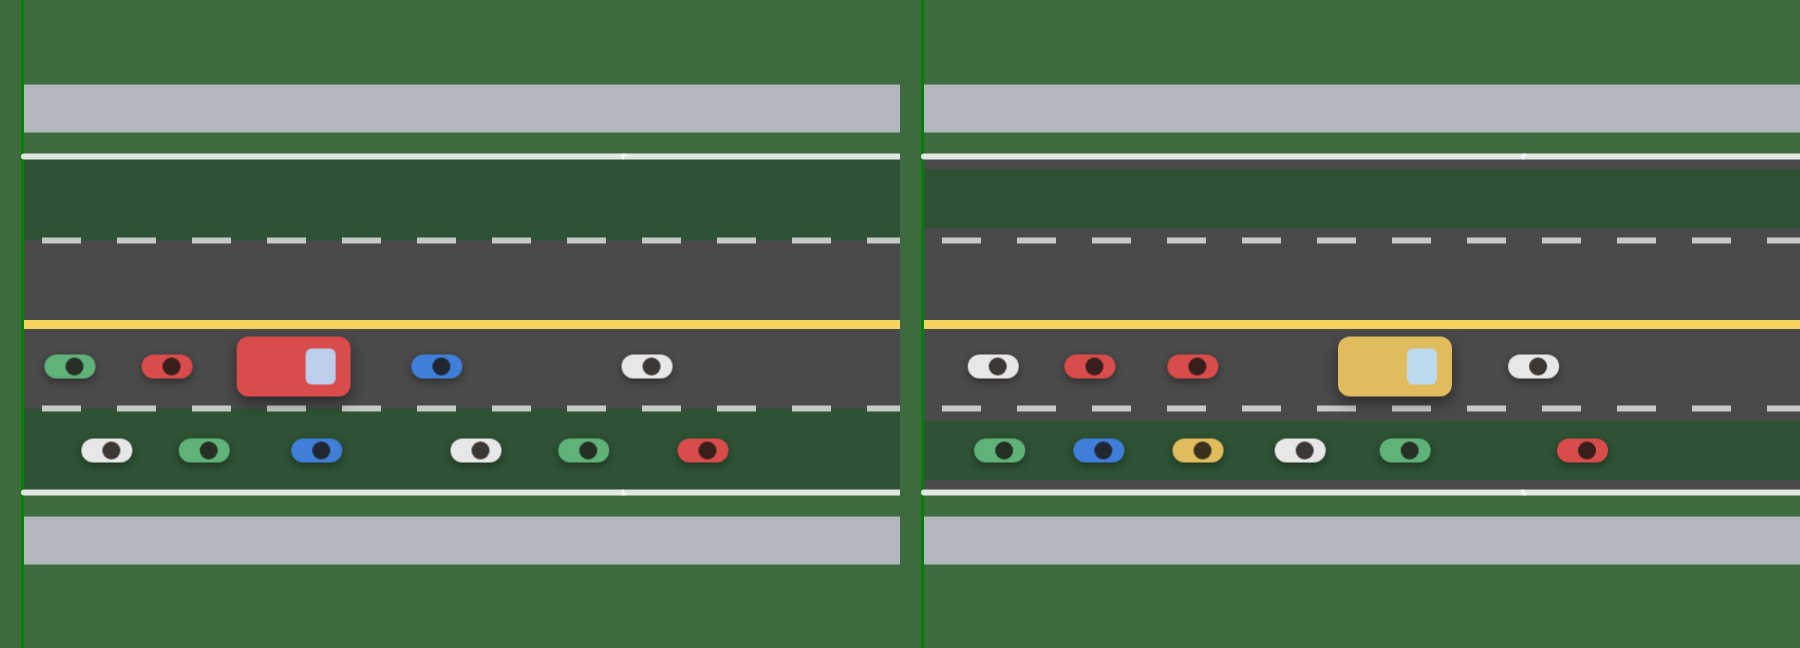
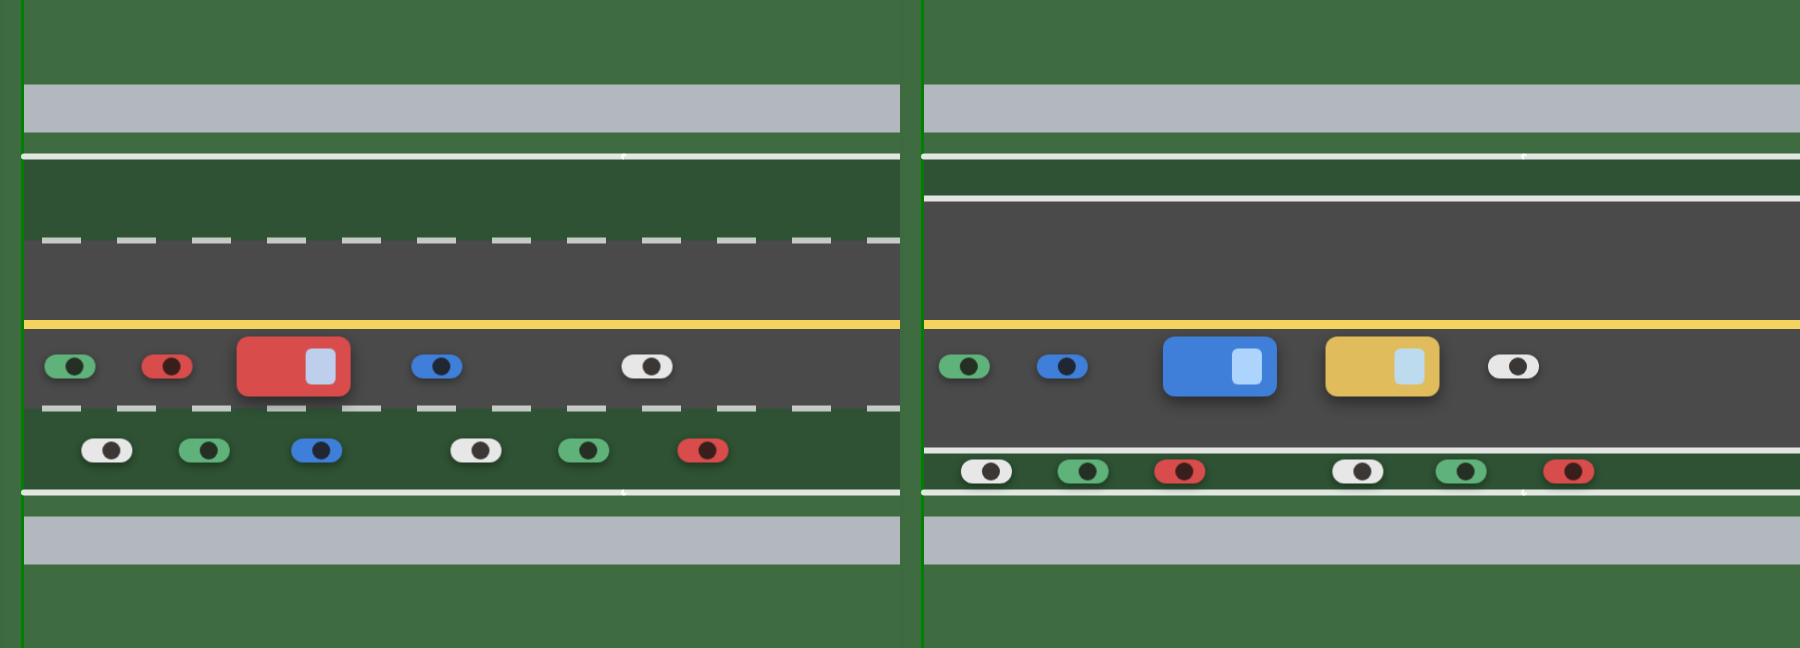
feat(roads): the cycle lane paints half a lane wide, kerb-aligned — real-world proportion
The full-lane green band read as a whole car lane given over to bikes.
Now the lane's visible footprint is HALF the lane width against the kerb,
like a real 1.5m bike lane beside a 3m car lane, in three agreeing places:

- the green tint is half-width and kerb-aligned (restrictedLaneBands);
- the full-slot dashed divider is replaced by a SOLID white edge line at
  half a lane in from the kerb (roadLaneMarkingPaths cycleA/cycleB, on
  straights, bends and one-ways, taper-capped like every marking);
- the bike rides the strip's centre, not the slot centre: couplerOffsets
  shifts a bike a quarter-lane kerbward on cycle lanes, scaled by lane-
  position proximity so merges on/off the strip glide (cycleStripShiftPx),
  with the matching landing shift after a turn onto a cycle-laned arm.
  The editor hover highlight and debug arrows sit on the strip too.

The lane's reserved slot in the sim's offset model is unchanged (a full
lane) — this is the paint-and-ride-line half of the proportion; halving
the slot itself would rework the band/seam/taper pipeline.

Claude-Session: https://claude.ai/code/session_018cEoxPea8NatzZQmcScoh2

Changed region(s): [[0.4978, 0.4938, 1.0, 0.7716], [0.4978, 0.2469, 1.0, 0.4012]]

diff --git a/src/tiles/roadGeometry.ts b/src/tiles/roadGeometry.ts
@@ -480,6 +480,15 @@ export function roadLaneBandPath(
 // `capHalfA` / `capHalfB` (px) clamp the maximum marking offset at each end
 // to the rendered surface half-width, so markings never escape the road when
 // the surface tapers to match a narrower neighbour.
+//
+// `cycleA` / `cycleB`: how many KERB-side cycle lanes each direction carries
+// (0 or 1 in practice — the editor adds at most one). A cycle lane paints at
+// HALF the lane width against the kerb, real-world proportion: its boundary is
+// a SOLID white line at half a lane in from the kerb, and the full-width dashed
+// divider that would bound the slot is suppressed (the slot's inner half reads
+// as part of the carriageway). The green tint (Tile.vue restrictedLaneBands)
+// and the bike's ride line (sim/laneGeometry cycle-strip shift) use the same
+// half-width kerb alignment, so paint, tint and rider agree.
 export function roadLaneMarkingPaths(
   entry: Port,
   exit: Port,
@@ -488,6 +497,8 @@ export function roadLaneMarkingPaths(
   lanesB: number,
   capHalfA?: number,
   capHalfB?: number,
+  cycleA = 0,
+  cycleB = 0,
 ): LaneMarkingPath[] {
   const LANE_W = size * 0.14;
   const out: LaneMarkingPath[] = [];
@@ -515,7 +526,16 @@ export function roadLaneMarkingPaths(
     const seamCountB = capHalfB !== undefined ? Math.max(1, Math.round((2 * capHalfB) / LANE_W)) : m;
     const off = (seamCount: number, k: number) => (seamCount / 2 - Math.min(k, seamCount)) * LANE_W;
     const dropFrom = Math.min(seamCountA, seamCountB); // dividers >= this one drop
+    // A kerb-side cycle lane on the one-way: its half-width solid edge replaces
+    // the full-slot divider. The kerb is right-of-travel, so its side — and the
+    // suppressed divider — depend on which direction the one-way runs: travel
+    // entry→exit puts the kerb on the positive side (lane 0's boundary is k=1),
+    // travel exit→entry mirrors it (boundary k = m-1, edge at k = m-0.5).
+    const cycle = lanesA > 0 ? cycleA : cycleB;
+    const skipK = cycle > 0 && m >= 2 ? (lanesA > 0 ? 1 : m - 1) : -1;
+    const edgeK = lanesA > 0 ? 0.5 : m - 0.5;
     for (let k = 1; k < m; k++) {
+      if (k === skipK) continue;
       out.push(
         isStraight
           ? {
@@ -524,6 +544,21 @@ export function roadLaneMarkingPaths(
               merge: k >= dropFrom,
             }
           : { d: curvedParallelPath(entry, exit, size, (m / 2 - k) * LANE_W), kind: "inner" },
+      );
+    }
+    if (cycle > 0 && m >= 2) {
+      out.push(
+        isStraight
+          ? {
+              d: taperedParallel(entry, exit, size, off(seamCountA, edgeK), off(seamCountB, edgeK)),
+              kind: "inner",
+              solid: true,
+            }
+          : {
+              d: curvedParallelPath(entry, exit, size, (m / 2 - edgeK) * LANE_W),
+              kind: "inner",
+              solid: true,
+            },
       );
     }
     return out;
@@ -552,30 +587,67 @@ export function roadLaneMarkingPaths(
         : Infinity;
     const isMerge = (i: number) => i >= lo || (tapered && i * LANE_W >= capNarrow);
 
+    // A direction with a kerb-side cycle lane swaps that lane's full-slot dashed
+    // boundary (divider i = lanes−1, the outermost) for a SOLID edge line half a
+    // lane in from the kerb — the real-world half-width cycle lane. The slot's
+    // inner half reads as carriageway.
+    const skipA = cycleA > 0 && lanesA >= 2 ? lanesA - 1 : -1;
+    const skipB = cycleB > 0 && lanesB >= 2 ? lanesB - 1 : -1;
+    const pushEdge = (d0: number) => {
+      const sgn = Math.sign(d0);
+      let fromD = d0;
+      let toD = d0;
+      if (capHalfA !== undefined) fromD = sgn > 0 ? Math.min(fromD, capHalfA) : Math.max(fromD, -capHalfA);
+      if (capHalfB !== undefined) toD = sgn > 0 ? Math.min(toD, capHalfB) : Math.max(toD, -capHalfB);
+      out.push({
+        d: taperedParallel(entry, exit, size, fromD, toD),
+        kind: "inner",
+        solid: true,
+        merge: tapered && Math.abs(d0) >= capNarrow,
+      });
+    };
+
     // Between same-direction lanes on the entry→exit side (positive offset).
     for (let i = 1; i < hi; i++) {
+      if (i === skipA) continue;
       let fromD = i * LANE_W;
       let toD = i < lo ? i * LANE_W : narrowKerb;
       if (capHalfA !== undefined) fromD = Math.min(fromD, capHalfA);
       if (capHalfB !== undefined) toD = Math.min(toD, capHalfB);
       out.push({ d: taperedParallel(entry, exit, size, fromD, toD), kind: "inner", merge: isMerge(i) });
     }
+    if (skipA > 0) pushEdge((lanesA - 0.5) * LANE_W);
     // Between same-direction lanes on the exit→entry side (negative offset).
     for (let i = 1; i < hi; i++) {
+      if (i === skipB) continue;
       let fromD = -i * LANE_W;
       let toD = i < lo ? -i * LANE_W : -narrowKerb;
       if (capHalfA !== undefined) fromD = Math.max(fromD, -capHalfA);
       if (capHalfB !== undefined) toD = Math.max(toD, -capHalfB);
       out.push({ d: taperedParallel(entry, exit, size, fromD, toD), kind: "inner", merge: isMerge(i) });
     }
+    if (skipB > 0) pushEdge(-(lanesB - 0.5) * LANE_W);
   } else {
     // Curved tile (adjacent ports): add offset Bézier inner dividers for each
     // same-direction lane boundary, using the entry→exit and exit→entry sides.
+    // The cycle-lane swap (solid half-width edge for the full-slot divider)
+    // applies on bends exactly as on straights, so a painted run stays coherent
+    // through a corner.
+    const skipA = cycleA > 0 && lanesA >= 2 ? lanesA - 1 : -1;
+    const skipB = cycleB > 0 && lanesB >= 2 ? lanesB - 1 : -1;
     for (let i = 1; i < lanesA; i++) {
+      if (i === skipA) continue;
       out.push({ d: curvedParallelPath(entry, exit, size, i * LANE_W), kind: "inner" });
     }
+    if (skipA > 0) {
+      out.push({ d: curvedParallelPath(entry, exit, size, (lanesA - 0.5) * LANE_W), kind: "inner", solid: true });
+    }
     for (let i = 1; i < lanesB; i++) {
+      if (i === skipB) continue;
       out.push({ d: curvedParallelPath(entry, exit, size, -i * LANE_W), kind: "inner" });
+    }
+    if (skipB > 0) {
+      out.push({ d: curvedParallelPath(entry, exit, size, -(lanesB - 0.5) * LANE_W), kind: "inner", solid: true });
     }
   }
 

diff --git a/src/components/Tile.vue b/src/components/Tile.vue
@@ -1225,6 +1225,12 @@ class Tile extends Vue {
     return isRoadJunction(this.tile.road);
   }
 
+  // Kerb-side cycle lanes of one direction (0 or 1 in practice) — feeds the
+  // half-width cycle paint in roadLaneMarkingPaths.
+  private cycleLanesFrom(p: Position): number {
+    return (this.tile.road ?? []).filter(l => l.from === p && l.kind === "cycle").length;
+  }
+
   // A ONE-WAY junction has no arm carrying oncoming traffic: every port it
   // touches is EITHER an entry OR an exit, never both (a bidirectional arm makes
   // it a normal two-way junction). This gates the lane-anchored turn-off paint
@@ -1421,7 +1427,7 @@ class Tile extends Vue {
         // other's, like real intersection guide lines.
         const laneMarkings = this.tileIsRoadJunction
           ? this.junctionTurnGuides(coord, a, b, size)
-          : roadLaneMarkingPaths(a, b, size, selfA, selfB);
+          : roadLaneMarkingPaths(a, b, size, selfA, selfB, undefined, undefined, this.cycleLanesFrom(a), this.cycleLanesFrom(b));
         return {
           surface: roadCurvePolygonPathTapered(a, b, size, widthA2, widthB2),
           laneMarkings,
@@ -1552,7 +1558,7 @@ class Tile extends Vue {
       }
       return {
         surface: roadSurfacePolygonPath(a, b, size, widthA, widthB),
-        laneMarkings: roadLaneMarkingPaths(a, b, size, selfA, selfB, widthA / 2, widthB / 2),
+        laneMarkings: roadLaneMarkingPaths(a, b, size, selfA, selfB, widthA / 2, widthB / 2, this.cycleLanesFrom(a), this.cycleLanesFrom(b)),
         edges,
         mismatch: false,
         mismatchTip: "",
@@ -1577,11 +1583,16 @@ class Tile extends Vue {
     const road = this.tile.road;
     if (!this.config.roads || !road?.length) return [];
     const size = this.config.tileSize;
-    // A cycle lane's band is narrower than the lane itself (~70%) — real bike
-    // lanes are slimmer than car lanes, and the full-width tint read as heavy.
-    // Still centred on the lane, since that is where the bike actually rides.
+    // A cycle lane paints at HALF the lane width, KERB-ALIGNED — the real-world
+    // proportion (a bike lane is ~1.5m against a ~3m car lane, hugging the
+    // kerb). Its solid edge line (roadLaneMarkingPaths) sits on the band's
+    // inner boundary and the bike rides the band's centre (sim/laneGeometry's
+    // cycle-strip shift), so tint, line and rider agree. The slot's inner half
+    // reads as carriageway. Bus lanes keep the full-width gold band.
     const halfOf = (kind: "bus" | "cycle") =>
-      (kind === "cycle" ? 0.35 : 0.5) * LANE_WIDTH_PX_FRAC * size;
+      (kind === "cycle" ? 0.25 : 0.5) * LANE_WIDTH_PX_FRAC * size;
+    const shiftOf = (kind: "bus" | "cycle") =>
+      (kind === "cycle" ? 0.25 : 0) * LANE_WIDTH_PX_FRAC * size; // kerbward
     const out: { d: string; kind: "bus" | "cycle" }[] = [];
     const coord = parseCoordId(this.coordId);
     for (const lane of road) {
@@ -1591,7 +1602,8 @@ class Tile extends Vue {
       // movements, which shifted one direction's gold band off its lane (the
       // 3L T-junction bug: westbound band sat mid-road, eastbound was fine).
       const selfBand = this.positioningBandAt(coord, lane.from);
-      const off = (selfBand - 0.5 - lane.index) * LANE_WIDTH_PX_FRAC * size;
+      const off =
+        (selfBand - 0.5 - lane.index) * LANE_WIDTH_PX_FRAC * size + shiftOf(lane.kind);
       for (const to of laneAllExits(lane)) {
         if (oppositePort(lane.from) !== to) continue; // straight lanes only
         out.push({ d: roadLaneBandPath(lane.from, to, size, off, halfOf(lane.kind)), kind: lane.kind });
@@ -1820,8 +1832,9 @@ class Tile extends Vue {
               !jExit && nExitFwd > 0 ? Math.min(localCount, nExitFwd) : localCount;
             const entryLane = Math.min(lane.index, Math.max(1, entrySeam) - 1);
             const exitLane = Math.min(lane.index, Math.max(1, exitSeam) - 1);
-            const offEntry = oneWayLaneOffsetPx(entryLane, R, size);
-            const offExit = oneWayLaneOffsetPx(exitLane, R, size);
+            const cShift = isCycle ? 0.25 * LANE_WIDTH_PX_FRAC * size : 0;
+            const offEntry = oneWayLaneOffsetPx(entryLane, R, size) + cShift;
+            const offExit = oneWayLaneOffsetPx(exitLane, R, size) + cShift;
             out.push({ ...this.laneArrow(lane.from, to, size, offEntry, offExit), isBus: moveIsBus, isCycle });
             continue;
           }
@@ -1832,8 +1845,11 @@ class Tile extends Vue {
           // positions on each adjoining road's real band.
           const bandEntry = this.positioningBandAt(coord, lane.from);
           const bandExit = this.positioningBandAt(coord, to);
-          const offA = laneSeamOffsetPx(lane.index, selfBand, bandEntry, size);
-          const offB = laneSeamOffsetPx(lane.index, selfBand, bandExit, size);
+          // A cycle lane's arrow sits on the half-width green strip (a
+          // quarter-lane kerbward), matching the bike's ride line.
+          const cShift = isCycle ? 0.25 * LANE_WIDTH_PX_FRAC * size : 0;
+          const offA = laneSeamOffsetPx(lane.index, selfBand, bandEntry, size) + cShift;
+          const offB = laneSeamOffsetPx(lane.index, selfBand, bandExit, size) + cShift;
           out.push({ ...this.laneArrow(lane.from, to, size, offA, offB), isBus: moveIsBus, isCycle });
         } else {
           // Turn / junction movement: glide from this lane's approach offset to the

diff --git a/src/sim/laneGeometry.ts b/src/sim/laneGeometry.ts
@@ -16,6 +16,7 @@ import { Level } from "@/tiles/model";
 import {
   laneCount,
   laneCountAt,
+  cycleLaneIndices,
   isRoadJunction,
   isOneWayStraight,
   oneWayRunMax,
@@ -24,6 +25,7 @@ import {
   VehicleClass,
 } from "@/tiles/lanes";
 import {
+  LANE_WIDTH_FRAC,
   laneSeamOffsetPx,
   laneOffsetConstPx,
   oneWayLaneOffsetPx,
@@ -135,6 +137,26 @@ export function createLaneGeometry(level: Level, tileSize: number) {
     );
   }
 
+  // A bike on a CYCLE lane rides the green strip, not the slot centre: the strip
+  // is painted at HALF the lane width against the kerb (Tile.vue
+  // restrictedLaneBands + roadGeometry's solid cycle edge), so the ride line
+  // shifts a quarter-lane kerbward. Scaled by the continuous lane position's
+  // proximity to the cycle lane, so a merge onto / off the strip glides instead
+  // of stepping sideways. Zero for every other vehicle class (nothing else may
+  // enter a cycle lane).
+  function cycleStripShiftPx(
+    coord: Coordinates,
+    entry: Port,
+    lanePos: number,
+    cls: VehicleClass,
+  ): number {
+    if (cls !== "bike") return 0;
+    const cycles = cycleLaneIndices(level[getCoordinatesId(coord)]?.road, entry);
+    if (!cycles.length) return 0;
+    const near = Math.max(...cycles.map(c => 1 - Math.min(1, Math.abs(lanePos - c))));
+    return near * 0.25 * LANE_WIDTH_FRAC * tileSize;
+  }
+
   // Seam-aware lateral offsets (right-of-travel) for one coupler: the offset at the
   // tile's entry seam and at its exit seam. The PATH between them is the shared lane
   // geometry (sim/pathGeometry.ts laneSegmentPointAt): a straight interpolates
@@ -165,12 +187,13 @@ export function createLaneGeometry(level: Level, tileSize: number) {
     if (exit !== null && exit === oppositePort(entry) && isOneWayStraightAt(s.coord, entry)) {
       const runMax = oneWayRunMaxAt(s.coord, entry);
       const local = laneCount(level[getCoordinatesId(s.coord)]?.road, entry);
+      const strip = cycleStripShiftPx(s.coord, entry, lanePos, cls);
       const at = (port: Port) =>
         oneWayLaneOffsetPx(
           Math.min(lanePos, Math.max(1, oneWaySeamCount(s.coord, port, local)) - 1),
           runMax,
           tileSize,
-        );
+        ) + strip;
       return { offEntry: at(entry), offExit: at(exit) };
     }
     const selfBand = centeredBandAt(s.coord, entry);
@@ -188,9 +211,12 @@ export function createLaneGeometry(level: Level, tileSize: number) {
     // also what the sim assigns on crossing the seam). That is the branch below.
     const hereIsJunction = isRoadJunction(level[getCoordinatesId(s.coord)]?.road);
     if (exit !== null && exit === oppositePort(entry) && !hereIsJunction) {
+      const strip = cycleStripShiftPx(s.coord, entry, lanePos, cls);
       return {
-        offEntry: laneSeamOffsetPx(lanePos, selfBand, positioningBandAt(s.coord, entry), tileSize),
-        offExit: laneSeamOffsetPx(lanePos, selfBand, positioningBandAt(s.coord, exit), tileSize),
+        offEntry:
+          laneSeamOffsetPx(lanePos, selfBand, positioningBandAt(s.coord, entry), tileSize) + strip,
+        offExit:
+          laneSeamOffsetPx(lanePos, selfBand, positioningBandAt(s.coord, exit), tileSize) + strip,
       };
     }
     // Curve / junction: sit on the entry arm's band, then ease to the lane the
@@ -199,10 +225,24 @@ export function createLaneGeometry(level: Level, tileSize: number) {
     // junction whose arms differ in width — glides to its real exit lane instead
     // of holding the approach offset and snapping at the boundary.
     // Dead-end / map edge → hold the approach offset.
-    const offEntry = laneOffsetConstPx(lanePos, positioningBandAt(s.coord, entry), tileSize);
+    const offEntry =
+      laneOffsetConstPx(lanePos, positioningBandAt(s.coord, entry), tileSize) +
+      cycleStripShiftPx(s.coord, entry, lanePos, cls);
     if (exit === null) return { offEntry, offExit: offEntry };
     const offExit = turnExitOffsetPx(s.coord, entry, exit, lanePos, cls);
-    return { offEntry, offExit: offExit ?? offEntry };
+    if (offExit === null) return { offEntry, offExit: offEntry };
+    // A bike leaving a turn onto an arm that carries a cycle lane lands
+    // kerb-most — ON the half-width strip — so the exit offset carries the same
+    // quarter-lane kerbward shift, keeping the glide continuous across the seam
+    // (the next tile's entry offset includes it via cycleStripShiftPx).
+    const next = neighborCoord(s.coord, exit);
+    const exitStrip =
+      cls === "bike" &&
+      next &&
+      cycleLaneIndices(level[getCoordinatesId(next)]?.road, oppositePort(exit)).length > 0
+        ? 0.25 * LANE_WIDTH_FRAC * tileSize
+        : 0;
+    return { offEntry, offExit: offExit + exitStrip };
   }
 
   return { couplerOffsets, turnExitOffsetPx, oneWayRunMaxAt };

diff --git a/src/views/EditorView.vue b/src/views/EditorView.vue
@@ -1348,7 +1348,10 @@ class EditorView extends Vue {
       // renderer/overlay — (band - 0.5 - index)·LANE·size, 0 = kerb. Using the
       // tile's own both-direction band keeps the path on the lane the car drives.
       const band = laneCountAt(tile.road, lane.from) / 2;
-      const off = (band - 0.5 - lane.index) * LANE_WIDTH_PX_FRAC * size;
+      // A cycle lane's visible strip is half-width, kerb-aligned — put the hover
+      // highlight on the green, a quarter-lane kerbward of the slot centre.
+      const cycleShift = lane.kind === "cycle" ? 0.25 * LANE_WIDTH_PX_FRAC * size : 0;
+      const off = (band - 0.5 - lane.index) * LANE_WIDTH_PX_FRAC * size + cycleShift;
       out.push({
         d: laneSegmentPathD(lane.from, to, size, off, off),
         from: lane.from,

diff --git a/docs/KNOWHOW.md b/docs/KNOWHOW.md
@@ -3311,8 +3311,16 @@ C/C′/D — racks, bike-and-ride, the citizen mode, shared paths — are NOT bu
   instead of losing its last lane; junctions are excluded (streets only).
 - Render: `road-car--bike` is an 8px capsule whose GLASS SPAN is the rider's
   head-dot (livery = jersey), CSS duplicated in PlayView + TestStage as ever.
-  Cycle lane tint green (`road-cycle-band`) at 70% lane width (a slim strip,
-  centred — Tile.vue `restrictedLaneBands` halfOf), debug arrows `lg-cycle` green.
+  A cycle lane paints at HALF the lane width, KERB-ALIGNED (real-world
+  proportion), in three agreeing places: the green tint (Tile.vue
+  `restrictedLaneBands`, half=0.25·W shifted 0.25·W kerbward), a SOLID white
+  edge line replacing the full-slot dashed divider (`roadLaneMarkingPaths`
+  cycleA/cycleB — suppress divider `lanes-1`, emit `solid` inner at
+  `(lanes-0.5)·W`), and the bike's ride line (`laneGeometry.cycleStripShiftPx`,
+  +0.25·W kerbward scaled by lane-pos proximity so merges glide). The lane's
+  reserved SLOT is still a full lane in the sim/offset model — only paint and
+  ride line are half-width; a true half-width slot would rework the whole
+  band/seam/taper pipeline. Debug arrows `lg-cycle` green, shifted onto the strip.
 - `/test/bikemix` (the queue), `/test/cyclelane` (the remedy),
   `/test/bikeovertake` (2-lane passing), `/test/bikeleftturn` (kerb rule at a
   forced left); sim pins in `roadBikes.spec.ts`.
